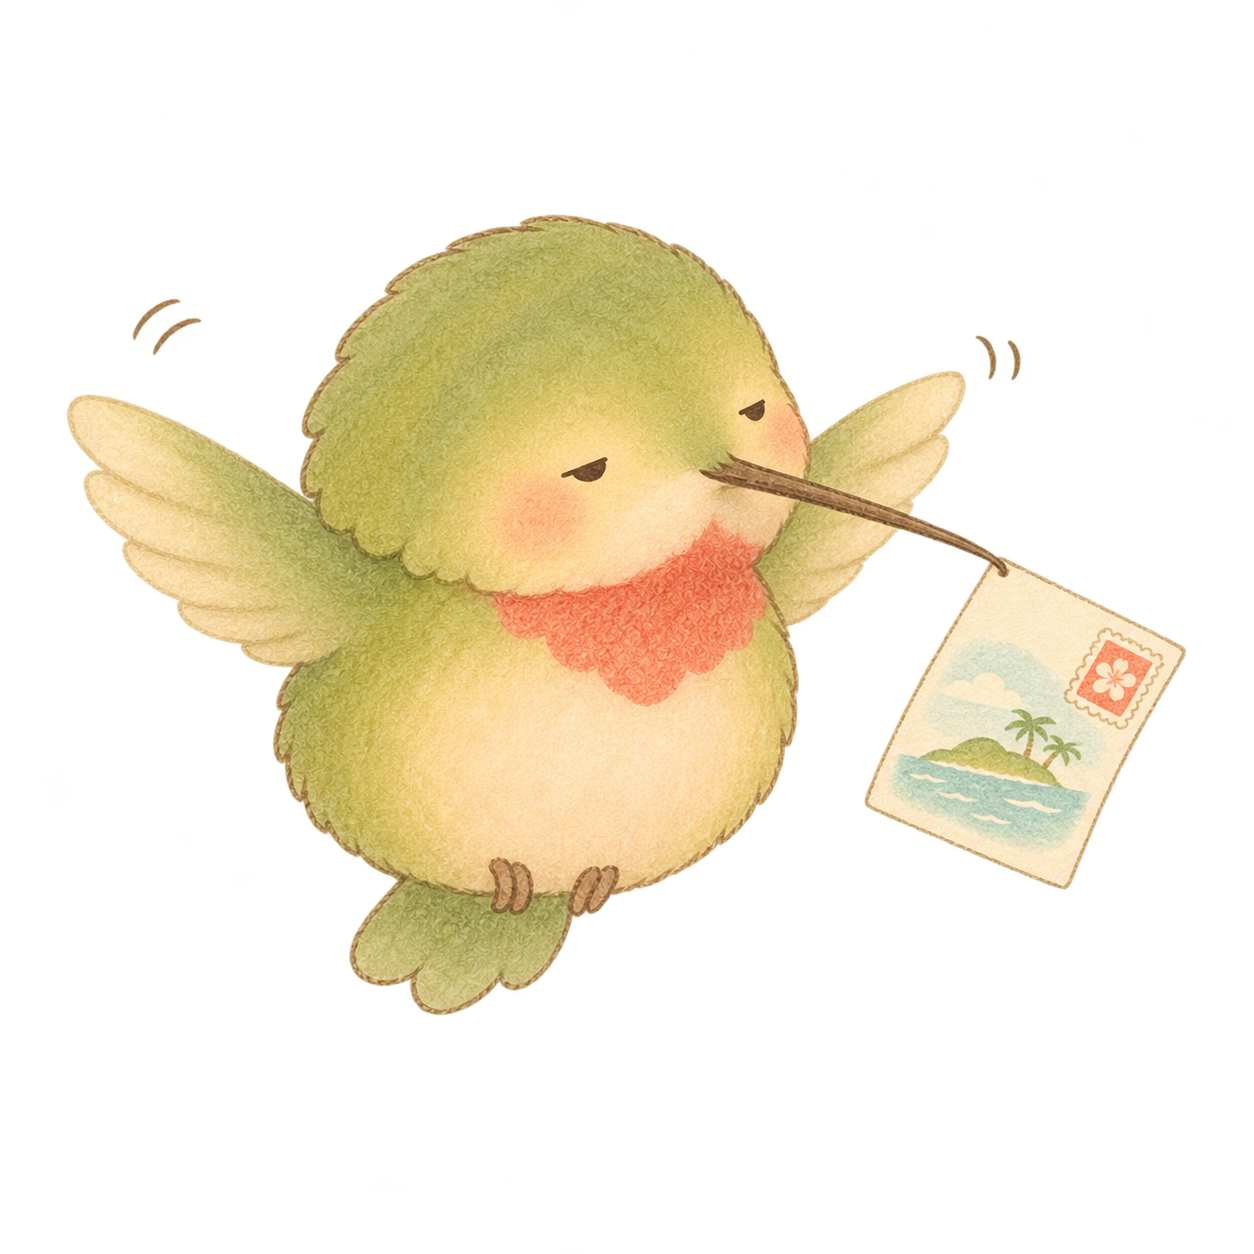
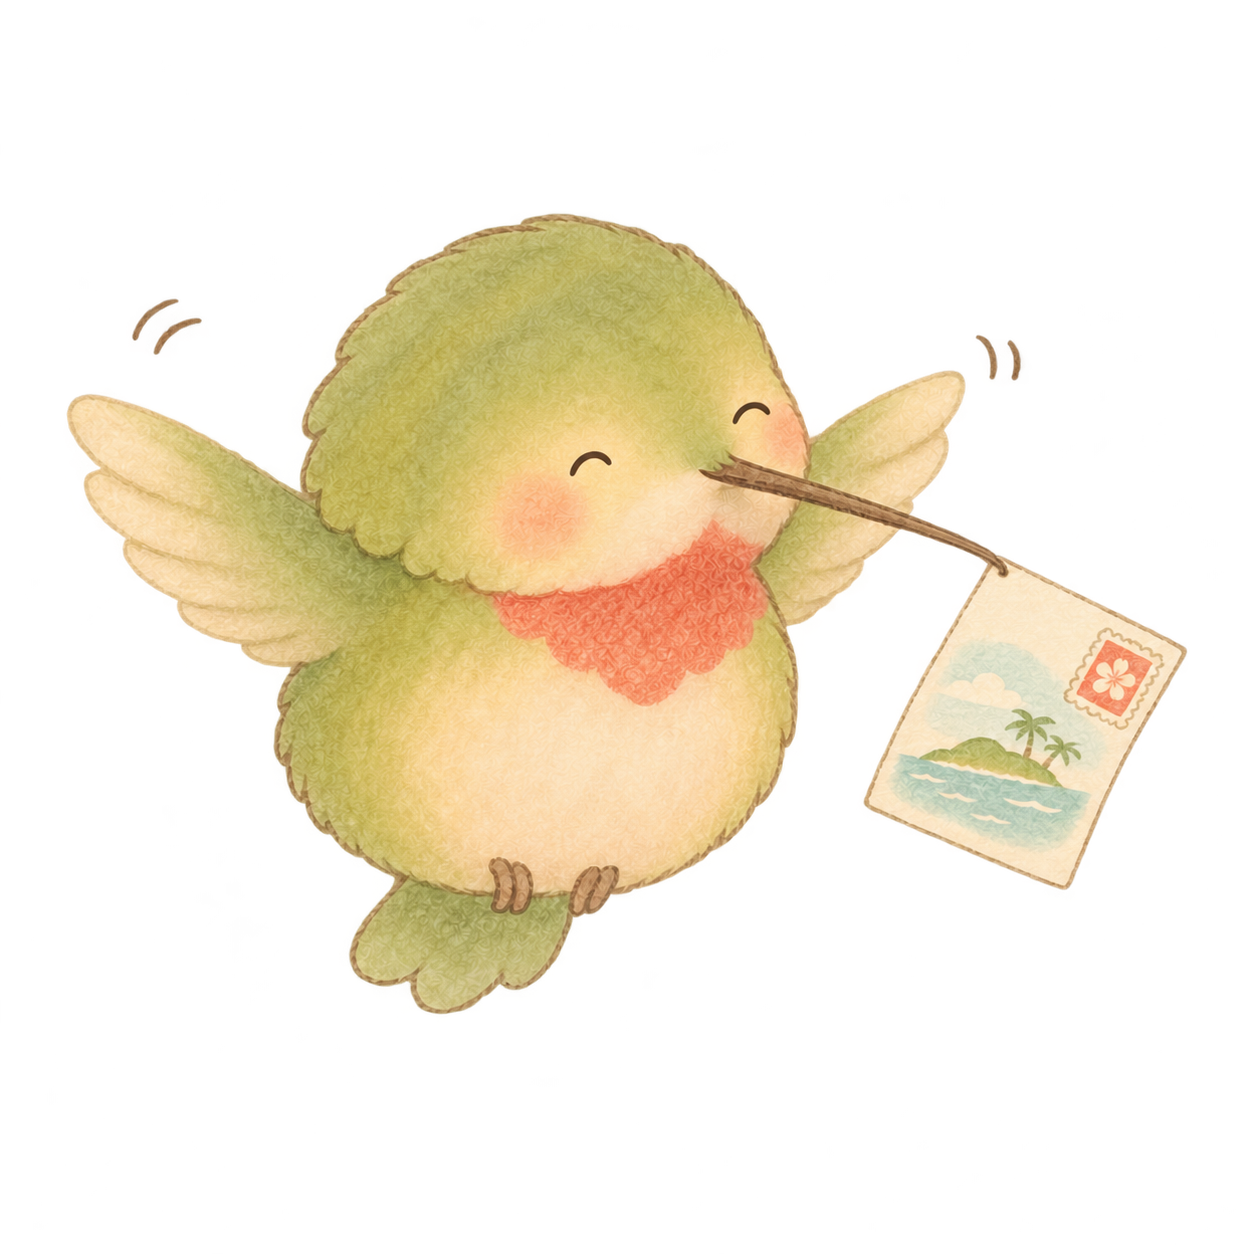
Add 啾啾 turnaround set and happy postcard pose
Claude-Session: https://claude.ai/code/session_01PPi3NrkiGn9WAFPpJi8WRQ

diff --git a/assets/jiujiu-island/README.md b/assets/jiujiu-island/README.md
@@ -16,7 +16,21 @@
 | `jiujiu-ask` | 歪头，头顶问号 | 识别不出日期 / 分组时的提示 |
 | `jiujiu-sleep` | 蜷成一团打盹 | 今日页空状态 |
 | `jiujiu-nest` | 坐在蛛丝苔藓巢里 | 侧栏头部、邮票、「我的岛」 |
-| `jiujiu-postcard` | 叼着明信片飞回来 | 惊喜入口（表情待重做：现在是半眯眼） |
+| `jiujiu-postcard` | 叼着明信片飞回来，眼睛弯弯地笑 | 惊喜入口、明信片页 |
+
+## 啾啾 · 多视角（定型参考）
+
+给设计师或生图工具当角色参考用：重新生成新动作时，把这几张一起传上去，啾啾的比例和花纹更容易保持一致。这组图带米色纸底，不是透明背景。
+
+| 文件 | 角度 |
+|---|---|
+| `jiujiu-turn-1-side` | 正侧面（朝右） |
+| `jiujiu-turn-2` | 侧面略转向前 |
+| `jiujiu-turn-3` | 四分之三侧 |
+| `jiujiu-turn-4` | 偏正面的四分之三侧 |
+| `jiujiu-turn-5-front` | 接近正面 |
+| `jiujiu-turn-6-back` | 背面 |
+| `jiujiu-fly-side` | 侧面飞行 |
 
 ## 场景
 
